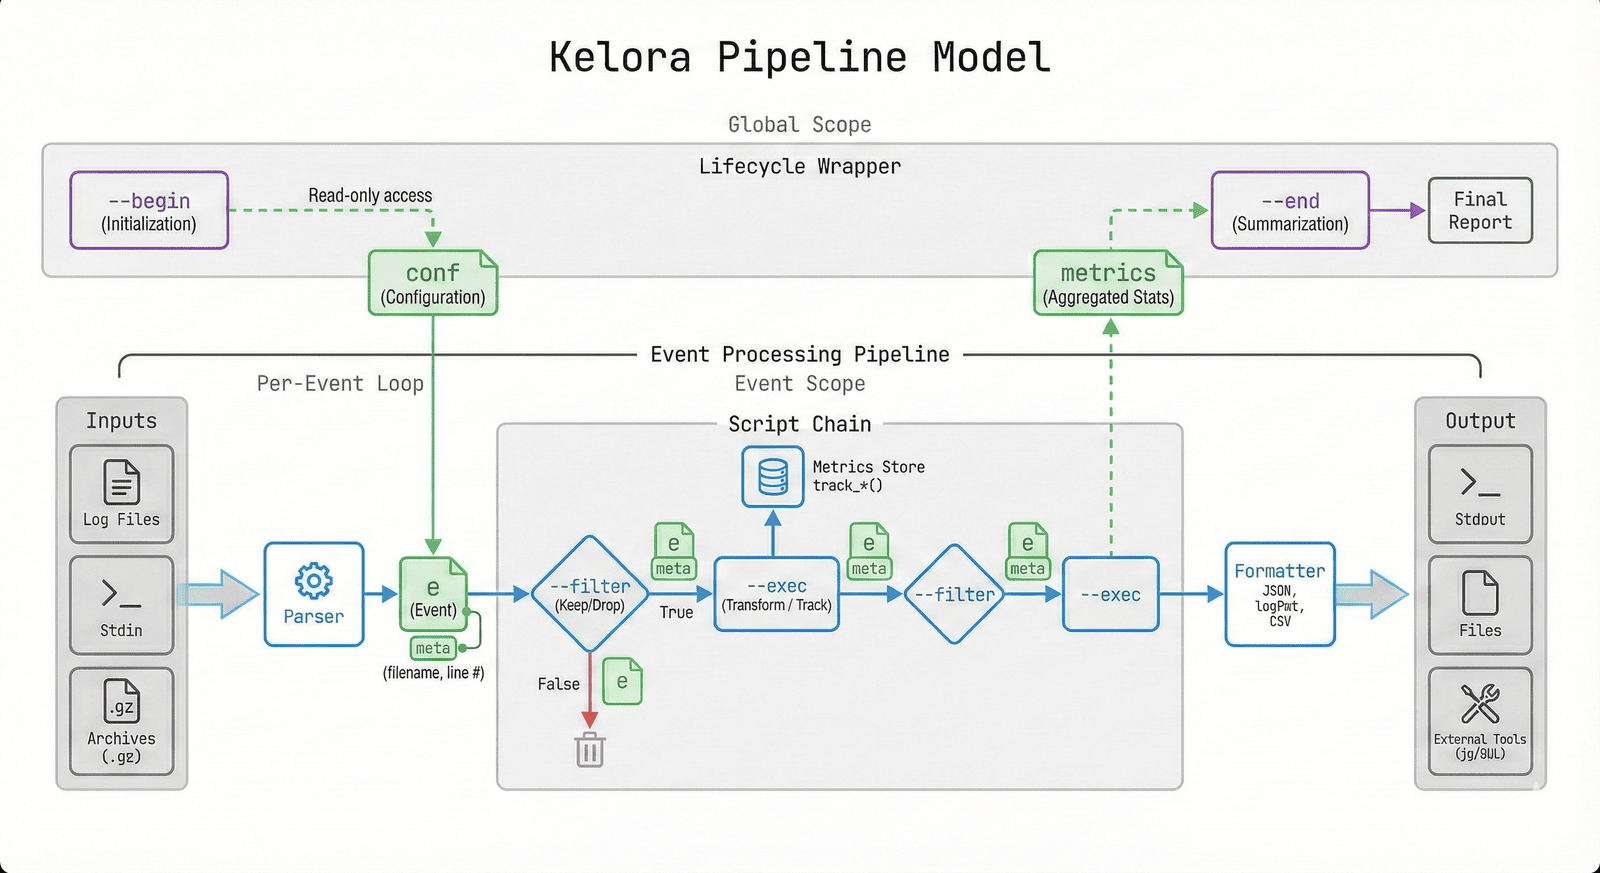
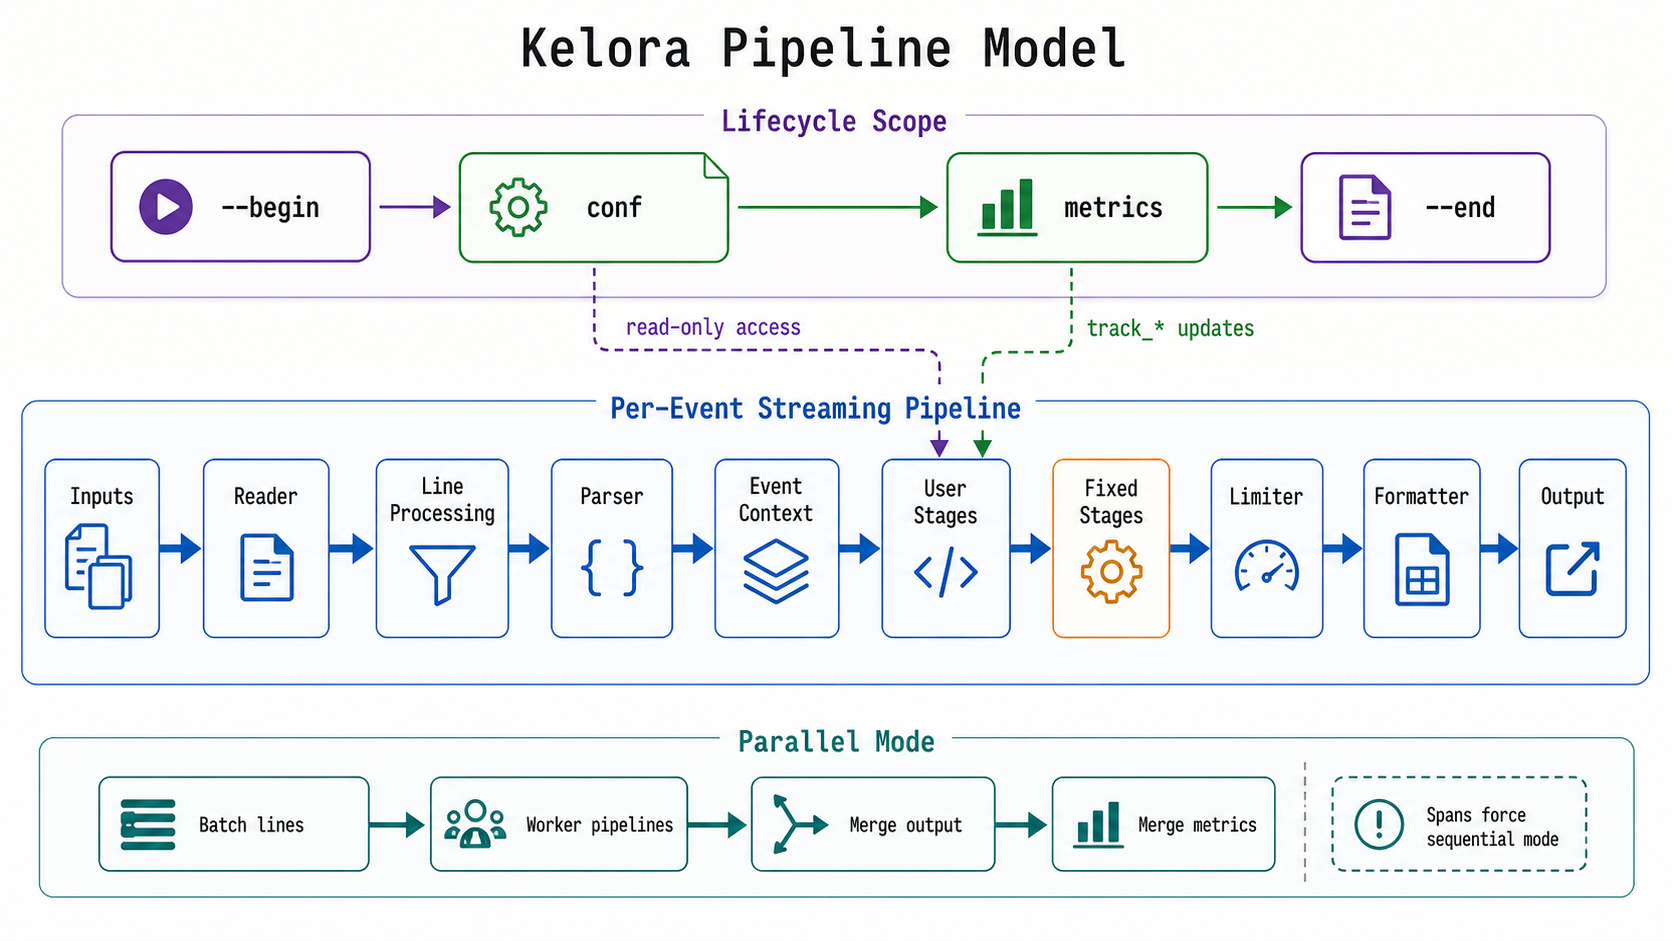
docs: refresh pipeline model diagram

diff --git a/docs/stylesheets/ansi-colors.css b/docs/stylesheets/ansi-colors.css
@@ -21,3 +21,15 @@
   --ansi-black: #282a36;
   --ansi-white: #f8f8f2;
 }
+
+.visually-hidden {
+  position: absolute;
+  width: 1px;
+  height: 1px;
+  padding: 0;
+  margin: -1px;
+  overflow: hidden;
+  clip: rect(0, 0, 0, 0);
+  white-space: nowrap;
+  border: 0;
+}

diff --git a/docs/concepts/pipeline-model.md b/docs/concepts/pipeline-model.md
@@ -15,6 +15,12 @@ This layered architecture enables efficient streaming with low memory usage whil
 ![Kelora Pipeline Architecture](pipeline-model.png#only-light)
 ![Kelora Pipeline Architecture](pipeline-model-dark.png#only-dark)
 
+**Diagram summary:** Kelora runs `--begin` once to prepare shared `conf`, streams each event through input, line-level, parser, script, fixed post-processing, and output stages, then runs `--end` with final metrics. In `--parallel` mode, batches run through independent worker pipelines and merge output, metrics, and stats afterward.
+
+<span class="visually-hidden">
+Pipeline diagram description: the top lifecycle scope shows `--begin`, `conf`, `metrics`, and `--end`. The main per-event streaming pipeline flows from inputs to reader, line processing, parser, event context, user stages, fixed stages, limiter, formatter, and output. Dashed arrows show read-only access from `conf` to user stages and `track_*` updates from user stages to metrics. The bottom parallel mode row shows batch lines, worker pipelines, merge output, and merge metrics, with a note that spans force sequential mode.
+</span>
+
 ## Quick Start: What You'll Use Most
 
 **For typical log analysis**, you only interact with these stages: